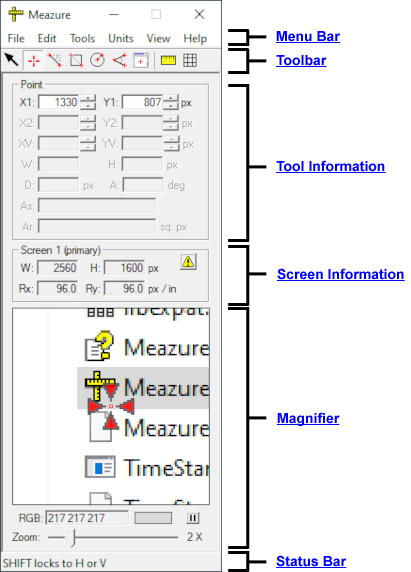
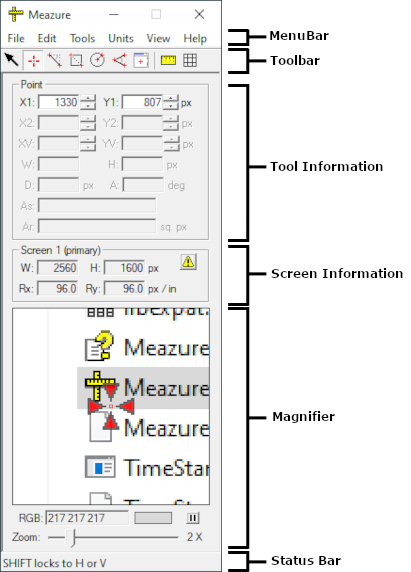
Remove image map from help. Add link to online User Guide in README.

diff --git a/src/help/Topics/Layout.htm b/src/help/Topics/Layout.htm
@@ -14,15 +14,7 @@
         tool information, screen information, magnifier, and status bar.
     </div>
     <div class="PicturePara">
-        <map name="SectionMap">
-            <area alt="Menu" shape="rect" coords="0,24,411,48" href="Menus.htm" />
-            <area alt="Toolbar" shape="rect" coords="0,49,411,73" href="Toolbar.htm" />
-            <area alt="Tool information" shape="rect" coords="0,74,411,239" href="ToolInfoSection.htm" />
-            <area alt="Screen information" shape="rect" coords="0,240,411,304" href="ScreenInfoSection.htm" />
-            <area alt="Magnifier" shape="rect" coords="0,305,411,551" href="Magnifier.htm" />
-            <area alt="Status bar" shape="rect" coords="0,552,411,571" href="StatusBar.htm" />
-        </map>
-        <img src="../Graphics/Sections.png" width="411" height="572" border="0" title="Program Layout" alt="Program layout" usemap="#SectionMap">
+        <img src="../Graphics/Sections.png" width="411" height="572" border="0" title="Program Layout" alt="Program layout">
     </div>
     <div class="Para">
         <span class="LeadItem"><a href="Menus.htm">Menu Bar</a></span> - All program functionality is accessible through the menu bar.

diff --git a/README.md b/README.md
@@ -20,6 +20,11 @@ This configuration includes:
 - Associating the file suffix `.mea` with the Meazure program
 - Optionally placing an icon on the desktop
 
+## User Guide
+
+The Meazure User Guide is [available online](https://github.com/cthing/meazure/wiki) and is bundled with the
+Meazure program as the help contents.
+
 ## License
 
 Refer to the [LICENSE](LICENSE) file distributed with this program
